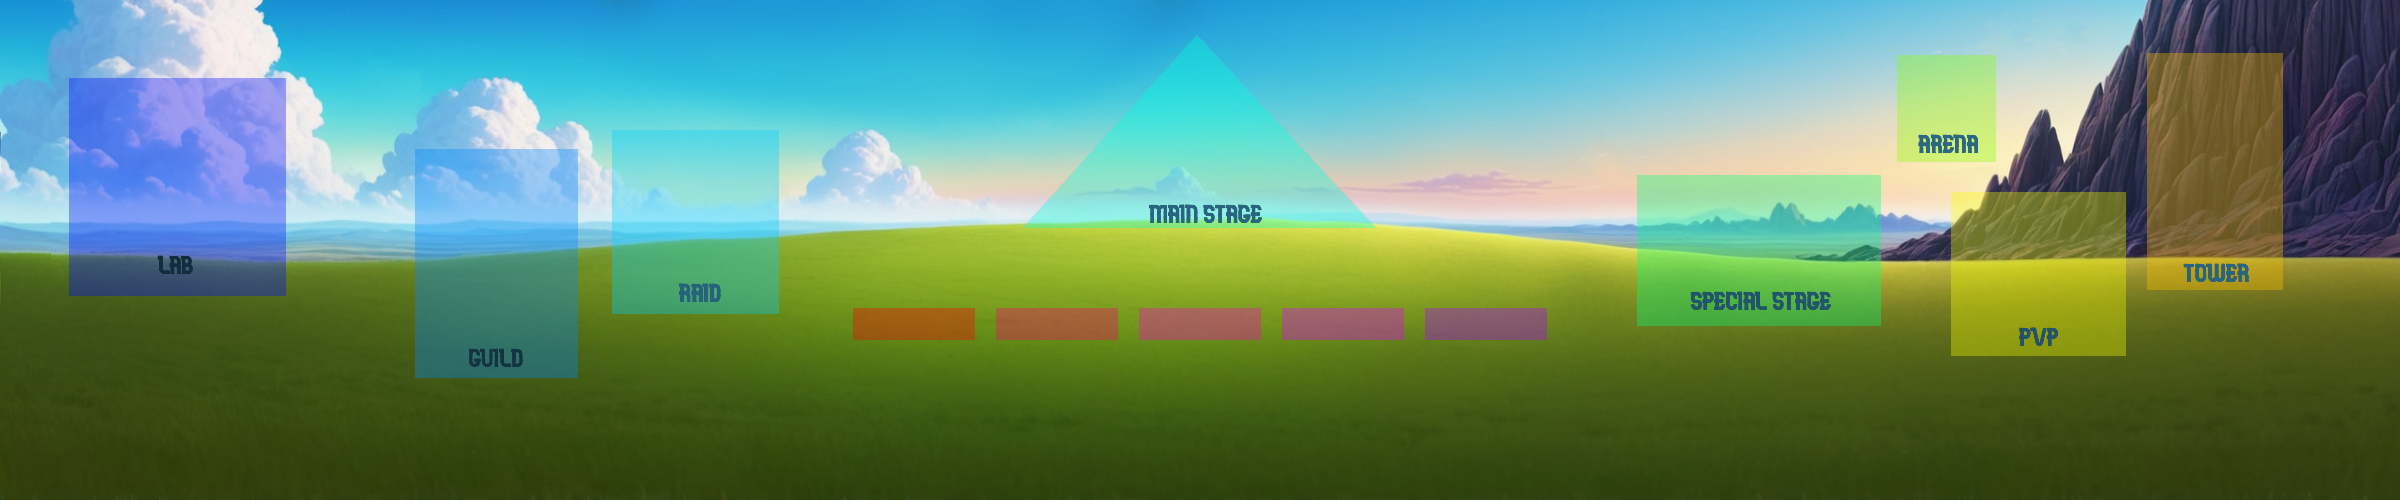
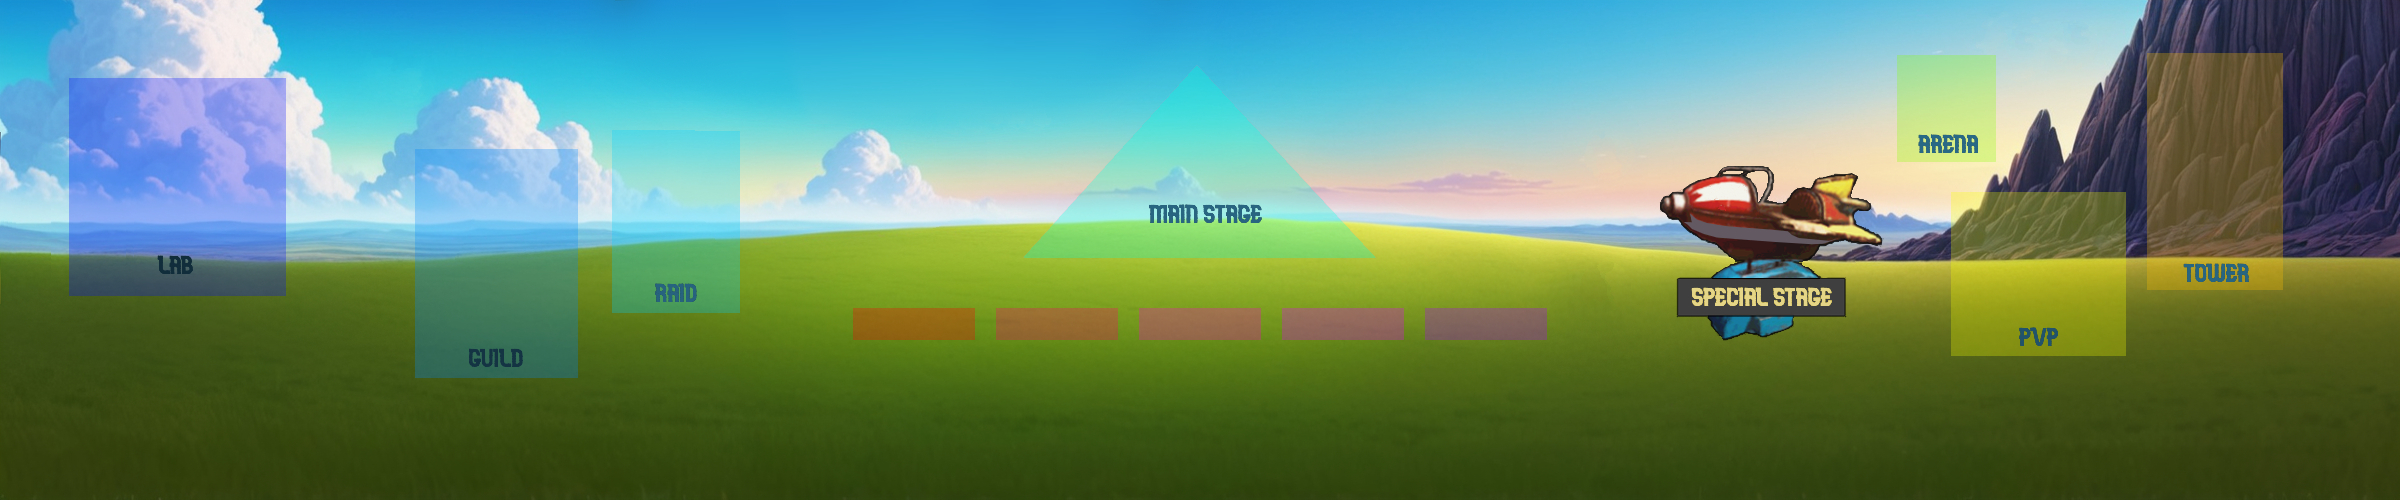
home controls clicks, fading transitions, special stage building

diff --git a/pages/home/index.js b/pages/home/index.js
@@ -25,56 +25,63 @@ const drawControls = () => {
 		<div class="header">
 			<div class="level">
 				<div class="background"></div>
-				<div class="banner">
+				<div class="banner clickable">
 					<div></div>
 					<div>Newbie</div>
 					<div>Level</div>
 					<div>1</div>
 				</div>
-				<div class="user">
+				<div class="user clickable">
 					<div class="image"></div>
 				</div>
 			</div>
 			<div class="buttons">
-				<div class="event">Event</div>
-				<div class="buff">Buff</div>
+				<div class="event clickable">Event</div>
+				<div class="buff clickable">Buff</div>
 			</div>
 			<div class="statsAndQuest">
 				<div class="stats"">
-					<div class="feathers">
+					<div class="feathers clickable">
 						F: 5007/100 max
 					</div>
-					<div class="gems">
+					<div class="gems clickable">
 						G: 2489
 					</div>
-					<div class="coins">
+					<div class="coins clickable">
 						C: 810
 					</div>
-					<div class="friends">
+					<div class="friends clickable">
 						FP: 0
 					</div>
 				</div>
-				<div class="quest">
+				<div class="quest clickable">
 					Quest
 				</div>
 			</div>
 		</div>
 		
 		<div class="resources">
-			<div class="exp">EXP</div>
+			<div class="exp clickable">EXP</div>
 		</div>
 		
 		<div class="navigation">
-			<div class="my-team">My Team</div>
-			<div class="upgrade">Upgrade</div>
-			<div class="collect">Collect</div>
-			<div class="shop">Shop</div>
-			<div class="friends">Friends</div>
-			<div class="pass">Pass</div>
-			<div class="giftbox">Giftbox</div>
-			<div class="settings">⚙</div>
+			<div class="my-team clickable">My Team</div>
+			<div class="upgrade clickable">Upgrade</div>
+			<div class="collect clickable">Collect</div>
+			<div class="shop clickable">Shop</div>
+			<div class="friends clickable">Friends</div>
+			<div class="pass clickable">Pass</div>
+			<div class="giftbox clickable">Giftbox</div>
+			<div class="settings clickable">⚙</div>
 		</div>
 	`;
+	container.addEventListener('mousedown', (event) => {
+		const which = Array.from(event.target.classList)
+			.filter((x) => x !== 'clickable')
+			.join('_');
+		const wipURL = `/pages/_wip/index.html?which=${which}&back=/pages/home/index.html`;
+		window.fadingNavigate(wipURL);
+	});
 	document.body.insertAdjacentElement('afterbegin', container);
 };
 
@@ -92,9 +99,10 @@ const setup = async () => {
 		clickHandle: (color) => {
 			const which = clickColorMap[color];
 			if (!which) return;
-			document.location.href = `${which}${
+			const clickUrl = `${which}${
 				which.includes('?') ? '&' : '?'
 			}back=/pages/home/index.html`;
+			window.fadingNavigate(clickUrl);
 		}
 	});
 	// const controls = await canvasVertical({
@@ -110,5 +118,4 @@ const setup = async () => {
 	// controls.canvas.style.zIndex = 1;
 	// controls.canvas.style.pointerEvents = 'none';
 };
-
 setup();

diff --git a/pages/_wip/index.html b/pages/_wip/index.html
@@ -1,6 +1,6 @@
 <html>
 	<head>
-		<title>TD: Team</title>
+		<title>TD: WIP</title>
 		<meta charset="utf-8" />
 		<meta name="description" content="" />
 		<meta name="author" content="" />
@@ -12,13 +12,12 @@
 		<link rel="manifest" href="/manifest.json" />
 		<link rel="icon" type="image/png" href="/assets/favicon.png" />
 		<!-- <link rel="stylesheet" href="/visuals/page.css" /> -->
-
 		<link rel="stylesheet" href="/visuals/fading.css" />
 		<script src="/visuals/fading.js"></script>
 	</head>
 
-	<body
-		style="
+	<style>
+		body {
 			margin: 0;
 			background-color: black;
 			color: white;
@@ -33,8 +32,11 @@
 			left: 0;
 			font-size: 2em;
 			font-family: monospace;
-		"
-	></body>
+		}
+	</style>
+
+	<body></body>
+
 	<script>
 		const params = Object.fromEntries(
 			new URLSearchParams(window.location.search)
@@ -43,7 +45,7 @@
 		<div style="
 			margin-bottom: 20px;
 		">
-			team ${params.slot}
+			WIP: ${params.which}
 		</div>
 		`;
 		document.body.addEventListener('click', () => {

diff --git a/visuals/fading.js b/visuals/fading.js
@@ -1,0 +1,20 @@
+const FADE_MS = 250;
+
+function fadeIn() {
+	document.body.classList.remove('fade-out');
+	void document.body.offsetWidth;
+	document.body.classList.add('fade-in');
+}
+document.addEventListener('DOMContentLoaded', fadeIn);
+window.addEventListener('pageshow', function (event) {
+	if (event.persisted) fadeIn();
+});
+
+const navigate = (url) => {
+	document.body.classList.add('fade-out');
+	setTimeout(() => {
+		document.location.href = url;
+	}, FADE_MS);
+};
+
+window.fadingNavigate = navigate;

diff --git a/pages/home/index.css b/pages/home/index.css
@@ -20,6 +20,13 @@
 	pointer-events: none;
 	font-family: monospace;
 
+	.clickable {
+		pointer-events: all;
+		& > * {
+			pointer-events: none;
+		}
+	}
+
 	.header {
 		grid-area: header;
 		display: flex;
@@ -139,7 +146,7 @@
 			font-size: 11px;
 		}
 		.settings {
-			font-size: 39px;
+			font-size: 30px;
 			width: 35px;
 			height: 35px;
 			line-height: 27px;
@@ -148,6 +155,7 @@
 			color: #c3c2c2;
 			text-shadow: 2px 4px 0px #454545;
 			border: 1px solid #131212;
+			margin-right: -35px;
 		}
 	}
 }

diff --git a/pages/home/index.html b/pages/home/index.html
@@ -13,6 +13,9 @@
 		<link rel="icon" type="image/png" href="/assets/favicon.png" />
 		<link rel="stylesheet" href="/visuals/canvas.css" />
 		<link rel="stylesheet" href="./index.css" />
+
+		<link rel="stylesheet" href="/visuals/fading.css" />
+		<script src="/visuals/fading.js"></script>
 	</head>
 
 	<body>

diff --git a/visuals/fading.css b/visuals/fading.css
@@ -1,0 +1,13 @@
+body {
+	opacity: 0;
+	transition: opacity 0.25s ease-in-out;
+	/* transition: opacity 0.35s cubic-bezier(0.4, 0, 1, 1); */
+}
+
+body.fade-in {
+	opacity: 1;
+}
+
+body.fade-out {
+	opacity: 0;
+}
